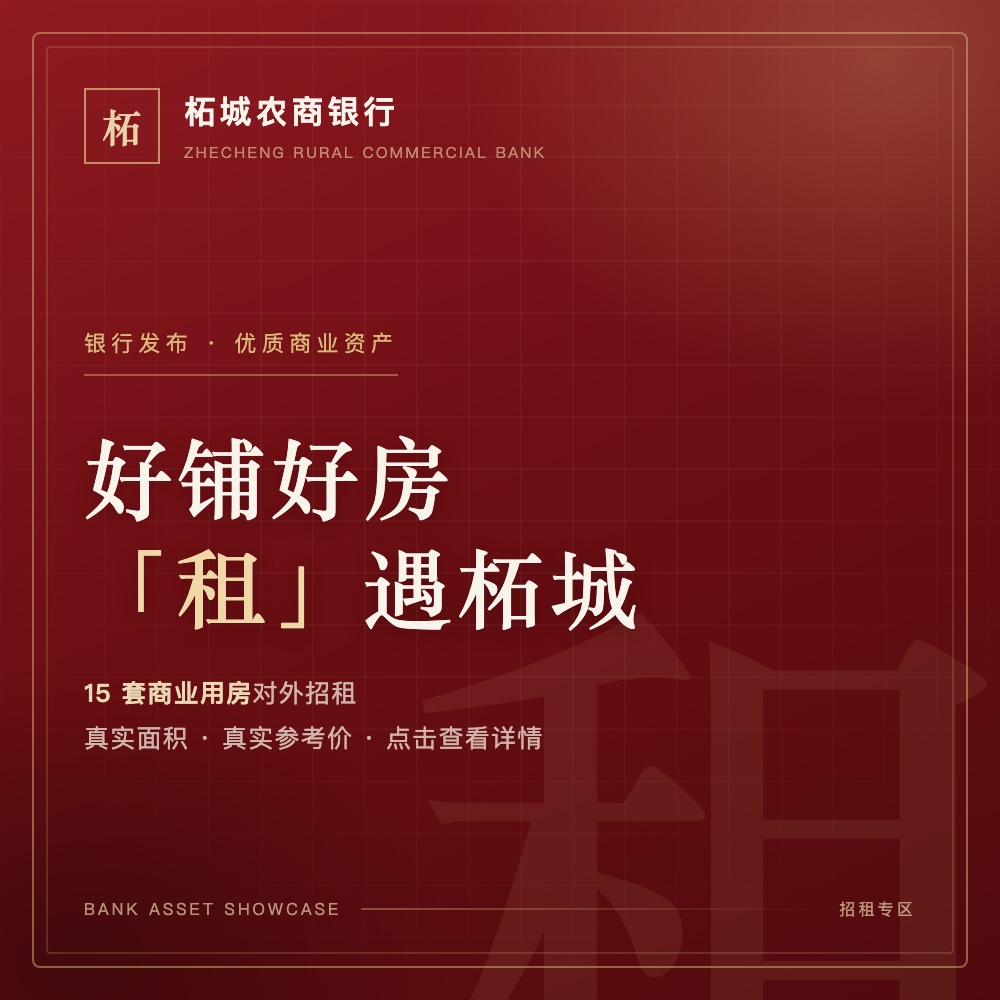
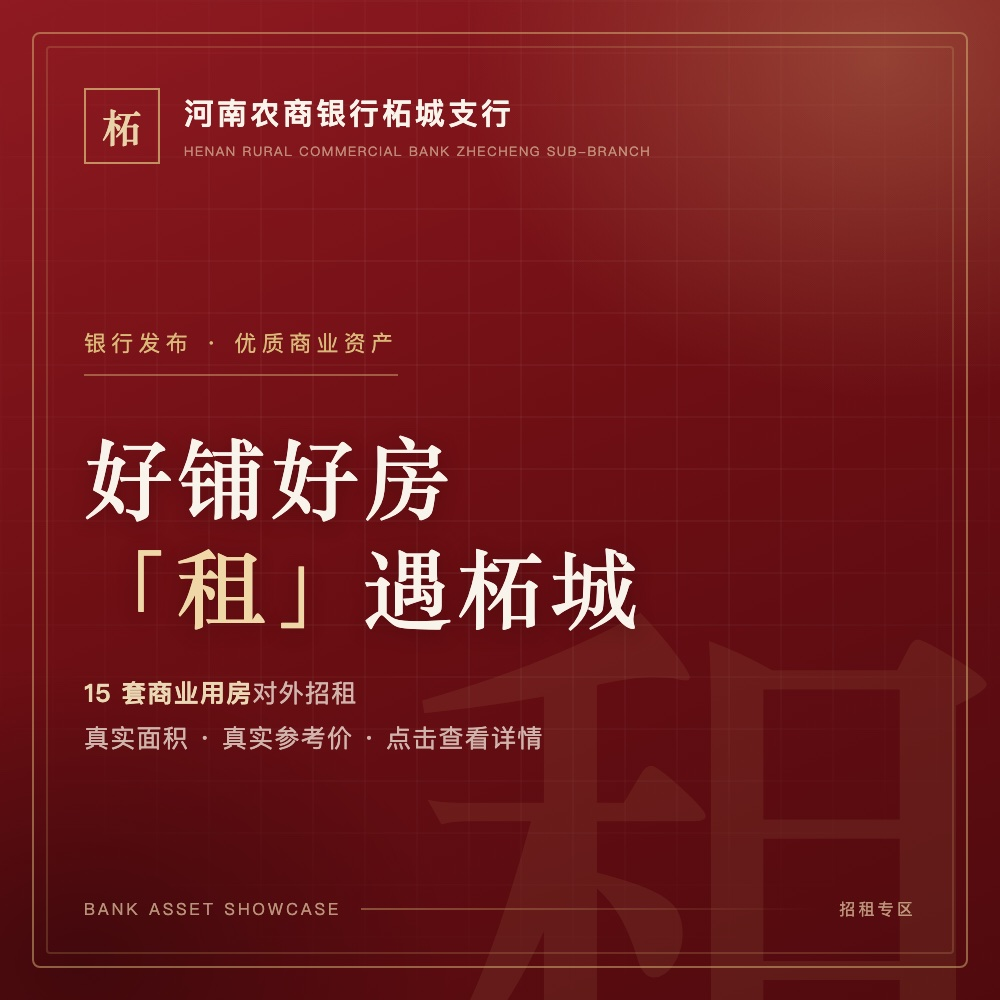
Rename bank brand to 河南农商银行柘城支行
- 页面中文名、英文副标题与分享配置统一更新为河南农商银行柘城支行
- 重新生成分享封面图以匹配新品牌名

Changed region(s): [[0.186, 0.093, 0.651, 0.155]]

diff --git a/index.html b/index.html
@@ -5,10 +5,10 @@
   <meta name="viewport" content="width=device-width, initial-scale=1, viewport-fit=cover">
   <meta name="theme-color" content="#741015">
   <meta name="format-detection" content="telephone=no">
-  <title>好铺好房，「租」遇柘城｜柘城农商银行优质房源招租</title>
-  <meta name="description" content="柘城农商银行精选15套商业用房对外招租，真实面积与京东资产参考价，点击图片查看房源详情。">
+  <title>好铺好房，「租」遇柘城｜河南农商银行柘城支行优质房源招租</title>
+  <meta name="description" content="河南农商银行柘城支行精选15套商业用房对外招租，真实面积与京东资产参考价，点击图片查看房源详情。">
   <meta property="og:title" content="好铺好房，「租」遇柘城">
-  <meta property="og:description" content="柘城农商银行15套商业用房对外招租，真实面积与参考价，点击图片查看京东详情。">
+  <meta property="og:description" content="河南农商银行柘城支行15套商业用房对外招租，真实面积与参考价，点击图片查看京东详情。">
   <meta property="og:type" content="website">
   <meta property="og:url" content="https://zhangfan-jxq.github.io/">
   <meta property="og:image" content="https://zhangfan-jxq.github.io/assets/images/share-cover.jpg">
@@ -1699,11 +1699,11 @@
       <span class="hero-watermark" aria-hidden="true">租</span>
 
       <div class="topbar">
-        <a class="brand" href="#top" aria-label="柘城农商银行招租专区首页">
+        <a class="brand" href="#top" aria-label="河南农商银行柘城支行招租专区首页">
           <span class="brand-mark" aria-hidden="true"><span>柘</span></span>
           <span class="brand-name">
-            <strong>柘城农商银行</strong>
-            <small>ZHECHENG RURAL COMMERCIAL BANK</small>
+            <strong>河南农商银行柘城支行</strong>
+            <small>HENAN RURAL COMMERCIAL BANK ZHECHENG SUB-BRANCH</small>
           </span>
         </a>
         <span class="topbar-tag">招租专区</span>
@@ -1743,7 +1743,7 @@
           <dl class="info-grid">
             <div class="info-item">
               <dt>招租单位</dt>
-              <dd>柘城农商银行</dd>
+              <dd>河南农商银行柘城支行</dd>
             </div>
             <div class="info-item">
               <dt>房源数量</dt>
@@ -1771,7 +1771,7 @@
         <p class="story-kicker">A PLACE FOR A BETTER LIFE</p>
         <h2 id="story-title">好铺养生意，<em>资产有底气</em></h2>
         <p class="story-copy">
-          一间好铺，是生意的底气；一处好资产，是经营的根基。柘城农商银行精选 15 套商业用房，分布于华盛新城、中海花园、金帝新城与中原大街等区域，建筑面积从 89.79㎡ 到 7,310.87㎡，可满足不同经营与选址需求。点击房源图片即可查看京东资产详情，欢迎实地看一看。
+          一间好铺，是生意的底气；一处好资产，是经营的根基。河南农商银行柘城支行精选 15 套商业用房，分布于华盛新城、中海花园、金帝新城与中原大街等区域，建筑面积从 89.79㎡ 到 7,310.87㎡，可满足不同经营与选址需求。点击房源图片即可查看京东资产详情，欢迎实地看一看。
         </p>
         <div class="benefits">
           <div class="benefit">
@@ -1893,11 +1893,11 @@
     <footer class="footer">
       <div class="footer-brand">
         <span class="mini-mark" aria-hidden="true">柘</span>
-        柘城农商银行
+        河南农商银行柘城支行
       </div>
       <p class="footer-slogan">扎根柘城 · 服务城乡</p>
       <div class="footer-line" aria-hidden="true"></div>
-      <p class="footer-copy">© 2026 柘城农商银行　房源资产宣传展示</p>
+      <p class="footer-copy">© 2026 河南农商银行柘城支行　房源资产宣传展示</p>
     </footer>
 
     <div class="bottom-bar" aria-label="预约看房">
@@ -1969,7 +1969,7 @@
         </span>
         <div>
           <h3>到店咨询 · 专人接待</h3>
-          <p>如方便到店，也可前往柘城农商银行任一营业网点，现场了解房源资料并预约看房。</p>
+          <p>如方便到店，也可前往河南农商银行柘城支行任一营业网点，现场了解房源资料并预约看房。</p>
         </div>
       </div>
 
@@ -2341,7 +2341,7 @@
       var WX_SHARE = {
         appId: "",          // TODO: 公众号 AppID
         signatureUrl: "",   // TODO: 后端签名接口，返回 { timestamp, nonceStr, signature }
-        title: "好铺好房，「租」遇柘城｜柘城农商银行优质房源招租",
+        title: "好铺好房，「租」遇柘城｜河南农商银行柘城支行优质房源招租",
         desc: "15 套商业用房对外招租，真实面积、真实参考价，点击查看房源详情。"
       };
 
